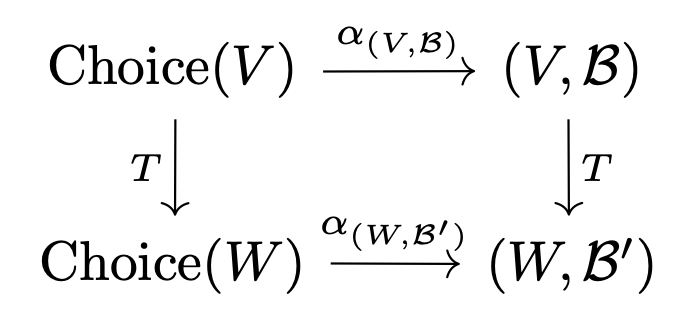
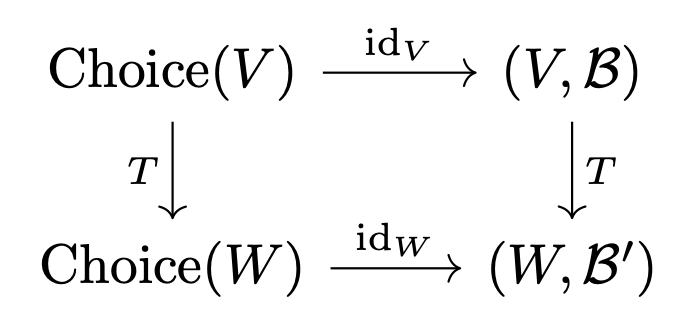
updated FinDimVect=BasisVect=Mat/

diff --git a/docs/blog/posts/FinDimVect=BasisVect=Mat/FinDimVect=BasisVect=Mat.md b/docs/blog/posts/FinDimVect=BasisVect=Mat/FinDimVect=BasisVect=Mat.md
@@ -20,7 +20,7 @@ ${ \mathsf{Vect}^{\mathrm{fd}}_{k} }$: 체 ${ k }$ 위의 유한차원 벡터공
 ${ \mathsf{Vect}^{\mathrm{basis}}_{K} }$는 다음과 같이 정의된다:
 
 - 오브젝트: 유한차원 벡터공간 ${ V }$와 그 기저 ${ \mathcal{B} }$의 순서쌍 ${ (V,\mathcal{B}) }$
-- ${ \operatorname{Hom}\left( \left( V,\mathcal{B} \right),\left( V',\mathcal{B'} \right) \right) }$: ${ V }$에서 ${ V' }$으로 가는 모든 선형사상들의 모임
+- ${ \operatorname{Hom}\left( \left( V,\mathcal{B} \right),\left( W,\mathcal{B'} \right) \right) }$: ${ V }$에서 ${ w }$으로 가는 모든 선형사상들의 모임
 
 ${ \mathsf{Mat}_{k} }$는 다음과 같이 정의된다:
 
@@ -33,11 +33,11 @@ $$ \mathsf{Vect}_{k}^{\mathrm{fd}}\underset{\operatorname{Forget}}{\overset{\ope
 
 #### 기저 선택 함자 Choice
 
-$$ \operatorname{Choice}(V\overset{T}{\to} V') = (V,\mathcal{B}) \overset{T}{\to} (V',\mathcal{B}')$$
+$$ \operatorname{Choice}(V\overset{T}{\to} W) = (V,\mathcal{B}) \overset{T}{\to} (W,\mathcal{B}')$$
 
 #### 행렬 표현 함자 Repr
 
-$$ \operatorname{Repr}((V,\mathcal{B}) \overset{T}{\to} (V',\mathcal{B}')) = \dim V \overset{[T]_{\mathcal{B}}^{\mathcal{B'}}}{\to} \dim V' $$
+$$ \operatorname{Repr}((V,\mathcal{B}) \overset{T}{\to} (W,\mathcal{B}')) = \dim V \overset{[T]_{\mathcal{B}}^{\mathcal{B'}}}{\to} \dim W $$
 
 #### 좌표 표현 함자 k<sup>(-)</sup>
 
@@ -47,7 +47,7 @@ $$ k^{(n \overset{A}{\to}m)} = (k^{n},\mathcal{E}^{n}) \overset{L_{A}}{\to} (k^{
 
 #### 망각 함자 Forget
 
-$$ \operatorname{Forget}((V,\mathcal{B}) \overset{T}{\to} (V',\mathcal{B}')) = V \overset{T}{\to} V' $$
+$$ \operatorname{Forget}((V,\mathcal{B}) \overset{T}{\to} (W,\mathcal{B}')) = V \overset{T}{\to} W $$
 
 ## 명제
 
@@ -63,7 +63,7 @@ $$ \operatorname{Forget} \circ \operatorname{Choice} = \operatorname{id}_{\maths
 
 $$ \operatorname{id}_{\mathsf{Vect}_{k}^{\mathrm{fd}}} \simeq \operatorname{Forget} \circ \operatorname{Choice}  $$
 
-자연동형사상 ${ \alpha: \operatorname{Choice} \circ\operatorname{Forget} \to\operatorname{id}_{\mathsf{Vect}_{k}^{{\mathrm{basis}}}}}$를 ${ \alpha_{(V,\mathcal{B})} = \operatorname{id}_{V} }$으로 잡으면,
+${ \alpha: \operatorname{Choice} \circ\operatorname{Forget} \to\operatorname{id}_{\mathsf{Vect}_{k}^{{\mathrm{basis}}}}}$를 ${ \alpha_{(V,\mathcal{B})} = \operatorname{id}_{V} }$으로 잡으면 다음 가환도식을 만족하는 자연동형사상이 된다.
 
 ![alpha|center|400](cd1.png)
 
